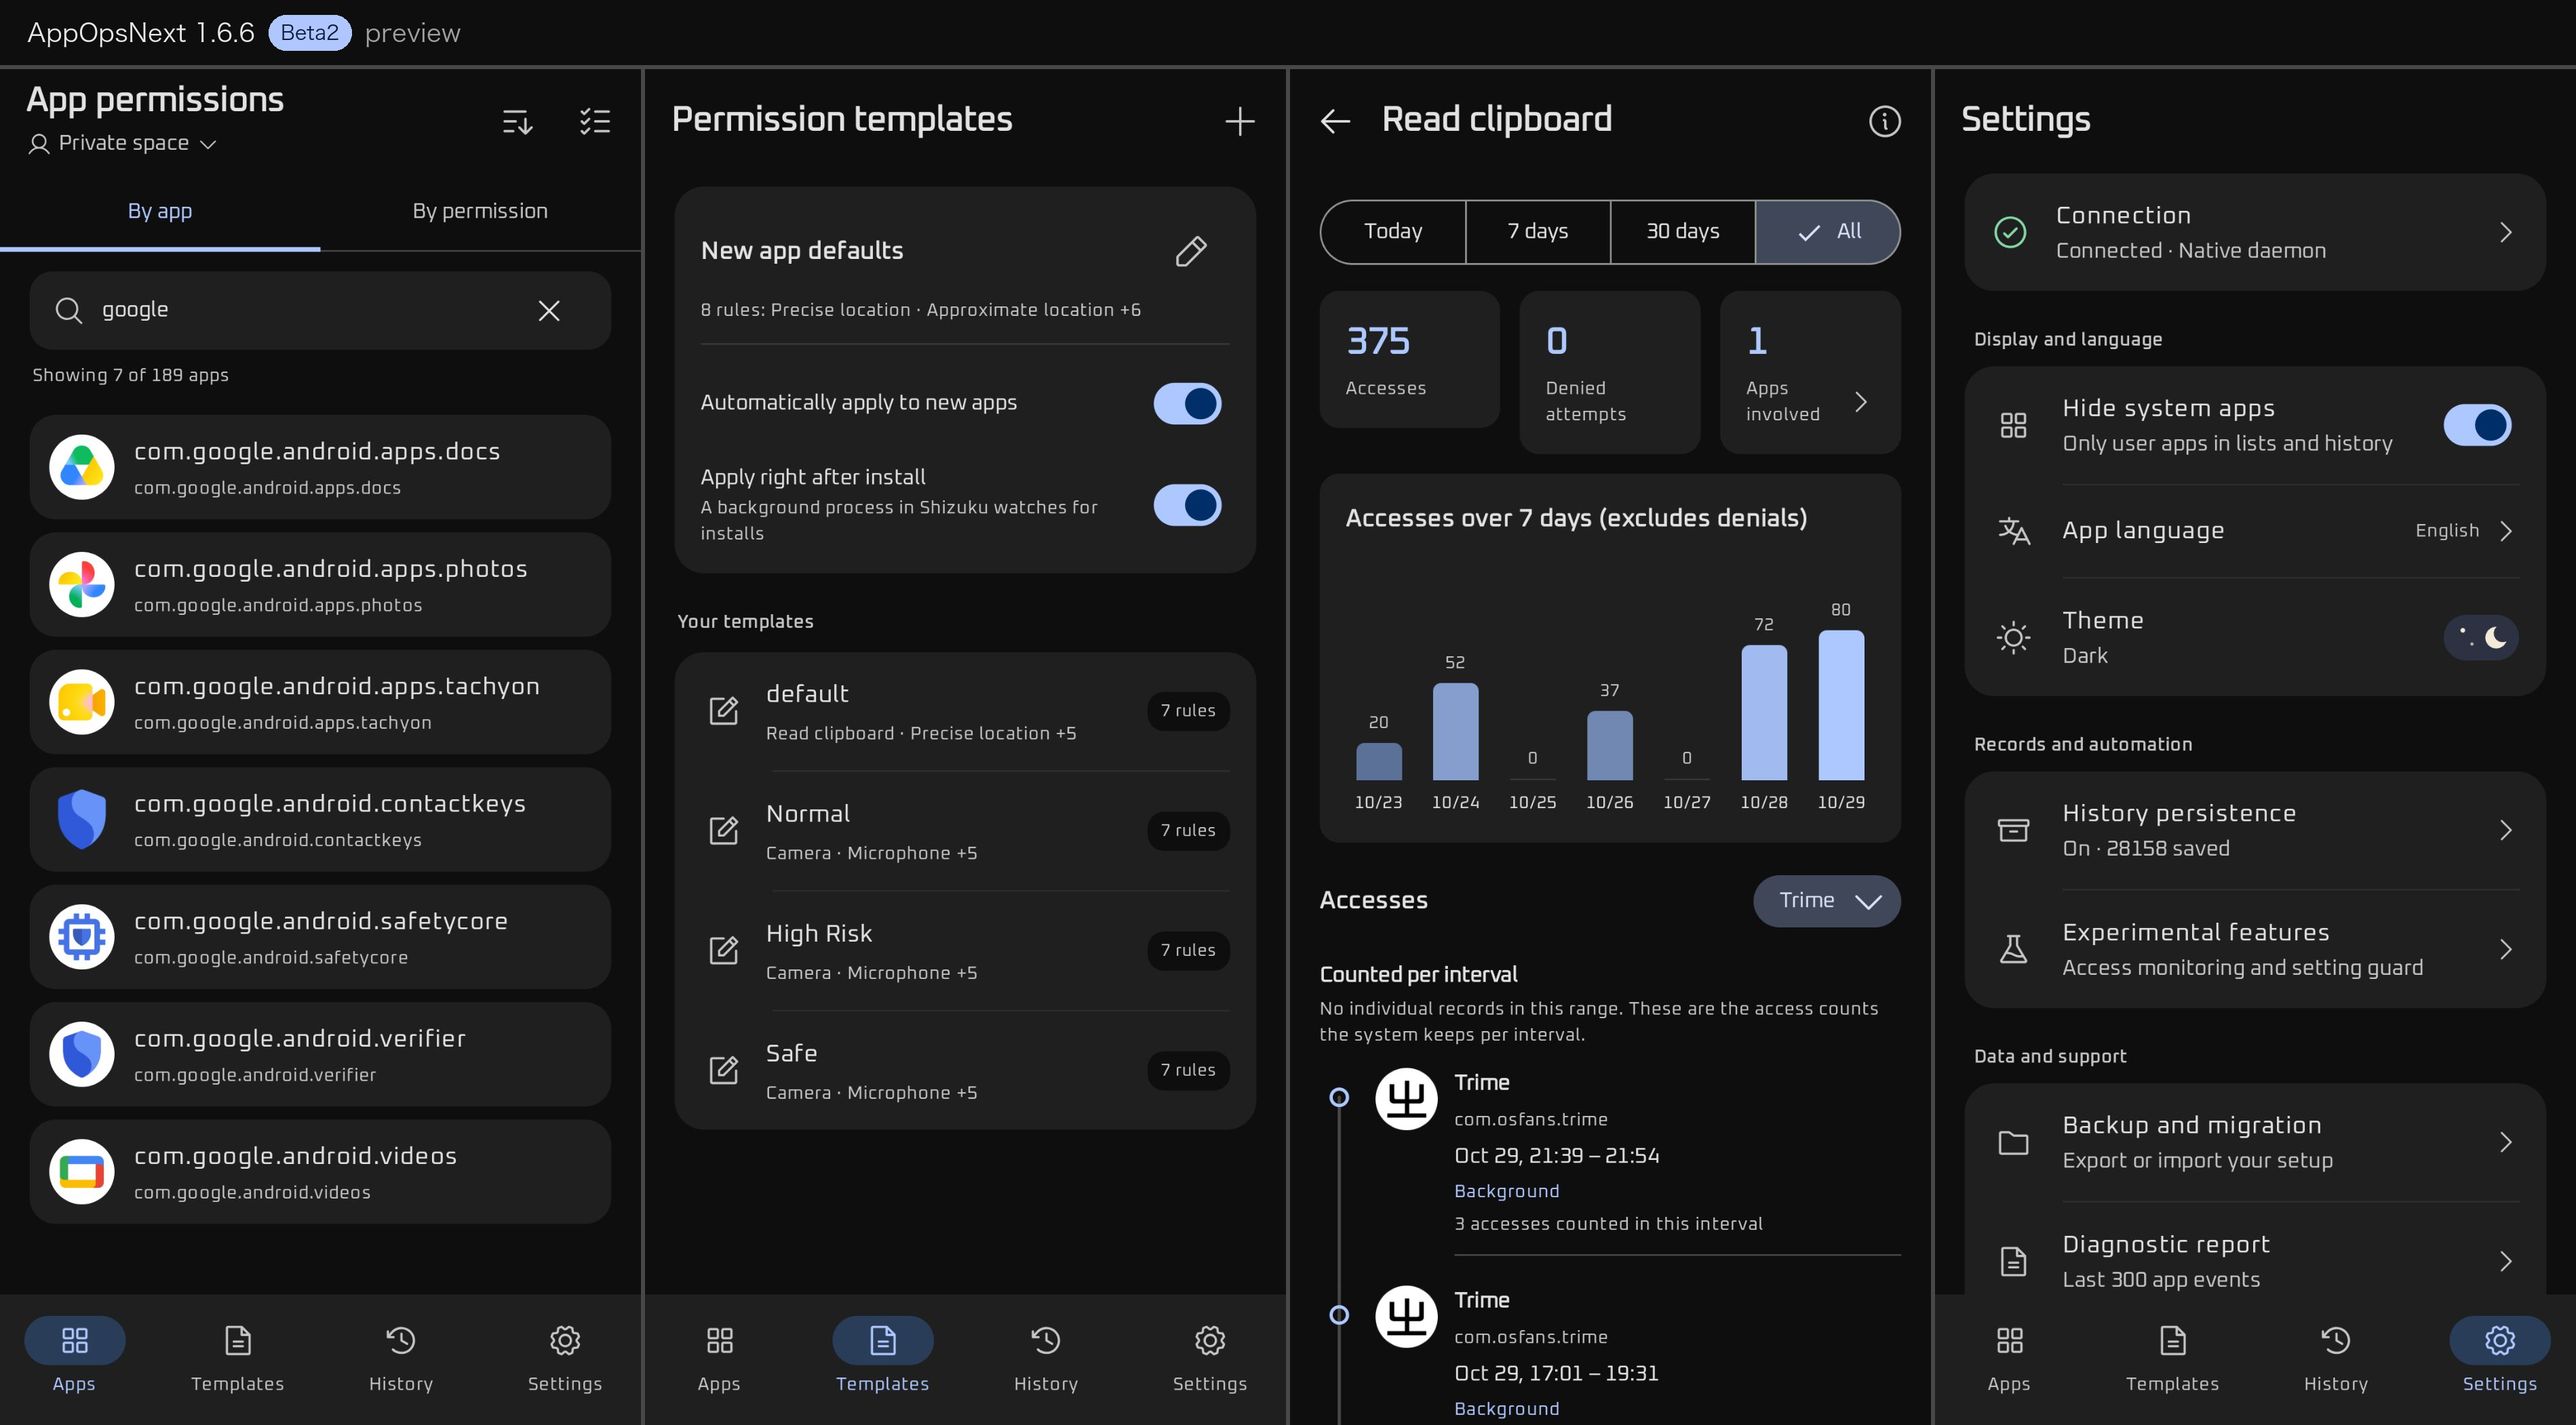
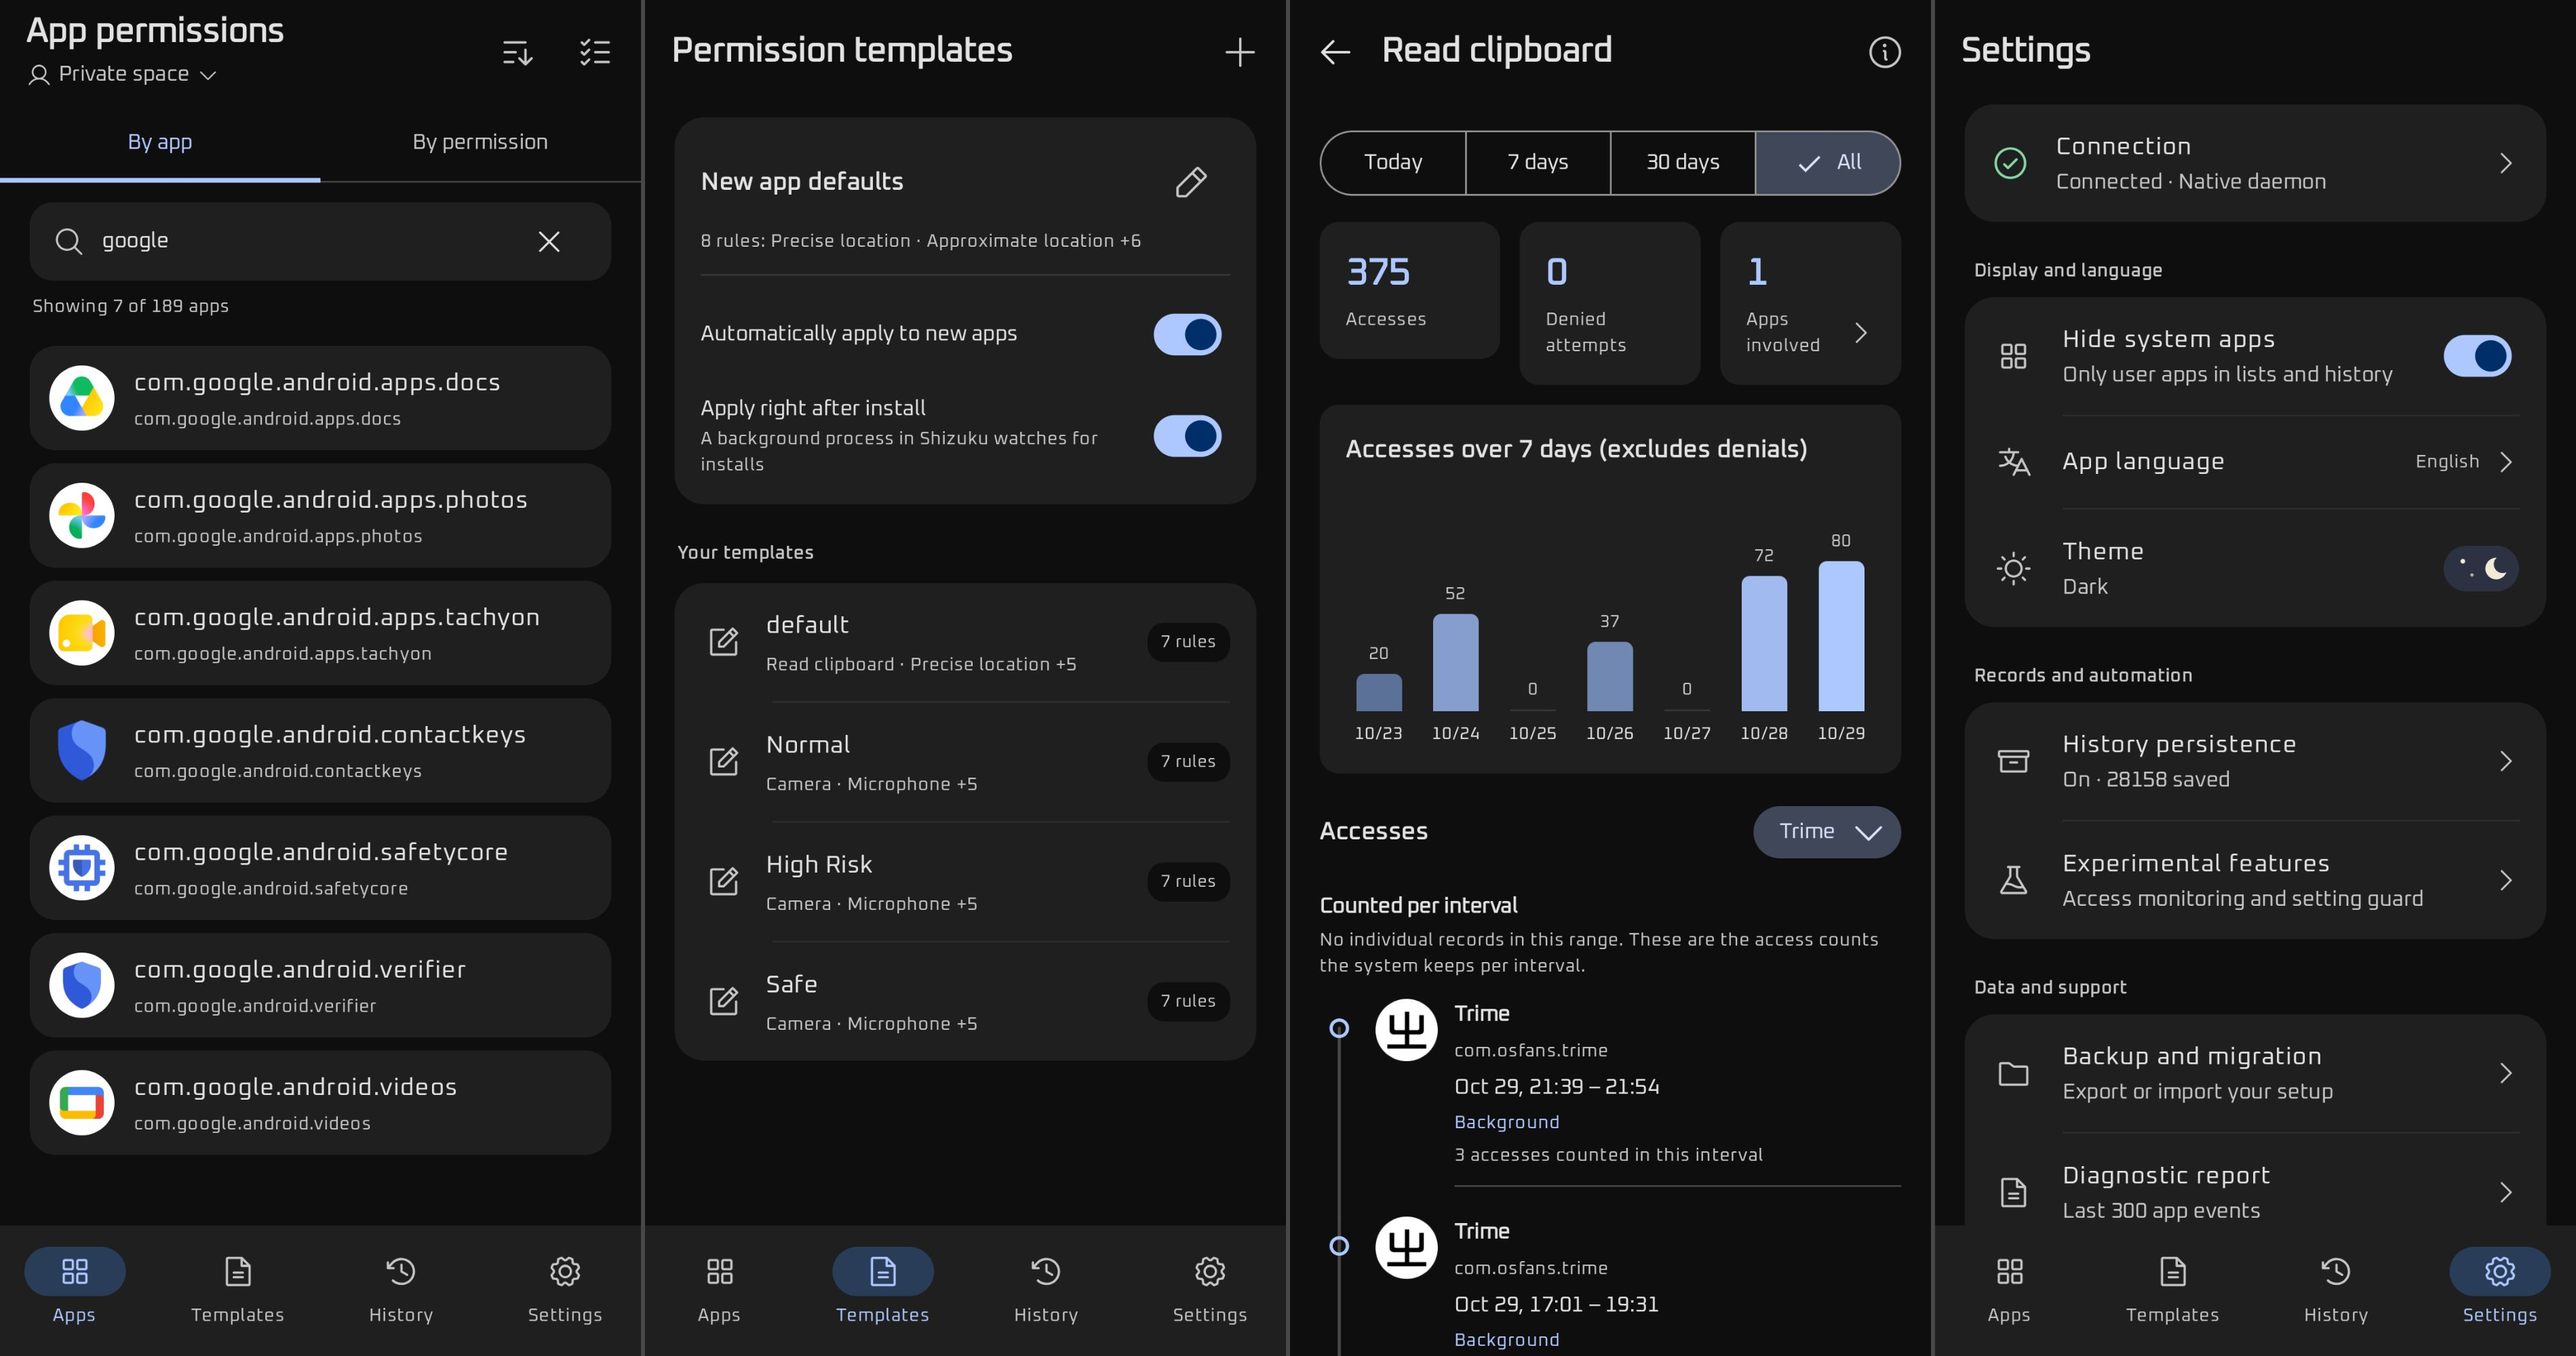
Bump version to 1.6.6 and update the READMEs (#23)

diff --git a/README.md b/README.md
@@ -25,13 +25,16 @@ Official APKs are published **ONLY** on GitHub Releases. No guarantee is made fo
 
 - **Permission controls.** Set AppOps such as camera, location, and clipboard
   per app, then read back each change to verify it.
-- **Templates.** Apply saved rules to several apps or automatically to new installs.
+- **Templates.** Apply saved rules to several apps, or automatically to new apps
+  right after they are installed.
 - **History.** Filter by time and app, including counts of denied attempts. Save
   individual records on the device beyond Android's seven-day retention period.
 - **Access monitoring (experimental).** Watch chosen app permissions, get reports
   of allowed and denied accesses, and review them in a log.
 - **Permission change listeners (experimental).** See which processes are
   registered to watch for permission-setting changes.
+- **Setting guard (experimental).** Get a notification when the system, a vendor
+  policy, or another app changes a guarded setting, and optionally restore it.
 - **Limited privileged access.** Use a fixed set of AppOps and permission-flag commands,
   with no arbitrary shell execution. Records stay on the device; only the update
   check uses the network.
@@ -40,13 +43,14 @@ Official APKs are published **ONLY** on GitHub Releases. No guarantee is made fo
 
 | Area | Features |
 | --- | --- |
-| Applications | Browse current-user apps, search names and packages, and choose whether to show system apps. Switch to By permission to see the mode of every app for one operation and change it there. |
+| Applications | Browse apps, search names and packages, sort by name, install time, or update time, and choose whether to show system apps. On a device with several users, switch to another user such as a work profile or private space. Switch to By permission to see the mode of every app for one operation and change it there. |
 | AppOps | Inspect package and UID modes, search operations by localized or system name, and verify changes by reading them back. |
-| Templates and batches | Create reusable rules, reorder them, apply a template to multiple apps, or change several operations in one app. Multi-select lists offer Select all for the items shown. Batch confirmations list the target mode and the items to change. |
-| Newly installed apps | Opt in to automatic template application, catch up on pending installations, and inspect saved per-rule results. |
+| Templates and batches | Create reusable rules, reorder them, apply a template to multiple apps, or change several operations in one app. Multi-select lists offer Select all for the items shown. Batch confirmations list the target mode and the items to change. When Setting guard is on, a template batch can also guard the settings it applied. |
+| Newly installed apps | Opt in to automatic template application and inspect saved per-rule results. With Apply right after install, a process kept in Shizuku watches for installs, so the template applies without opening AppOpsNext. A periodic background check handles anything missed. |
 | History | Explore permission distribution, app statistics, and timelines by day range and app; choose and reorder the operations you follow. Optionally keep individual records past the seven days Android retains. |
-| Settings and diagnostics | Switch between English, Simplified Chinese, or the system language, inspect connection status and diagnostic reports, and see quietly whether a newer release exists. |
-| Experimental | Watch chosen operations for chosen apps, with per-point reporting intervals, outcome filters and off-screen-only reporting. Notification permission is required for alerts. A registry check reports confirmed or unconfirmed coverage. A monitor log keeps every reported access, allowed or refused, whatever the notification settings. Also inspect a snapshot of processes registered for permission mode changes. |
+| Settings and diagnostics | Switch between English, Simplified Chinese, or the system language. Choose a theme: follow system, light, or dark. Inspect connection status and diagnostic reports, and see quietly whether a newer release exists. |
+| Backup and migration | Export templates, preferences, the access monitor selection, and Setting guard rules to a file. An import shows a preview of the changes and applies them only after you confirm. |
+| Experimental | Watch chosen operations for chosen apps, with per-point reporting intervals, outcome filters and off-screen-only reporting. Notification permission is required for alerts. A registry check reports confirmed or unconfirmed coverage. A monitor log keeps every reported access, allowed or refused, whatever the notification settings. Setting guard checks guarded settings hourly or in real time, and each rule can restore its target mode automatically, at most 3 attempts in 24 hours. Also inspect a snapshot of processes registered for permission mode changes. |
 
 ## Install and get started
 
@@ -68,7 +72,8 @@ AppOpsNext still needs Shizuku for privileged operations.
 
 Use **Templates** for reusable rules and **History** to review system records.
 Automatic template application for newly installed apps is optional; configure
-its rules before enabling it. The first reconciliation establishes an existing-app
+its rules before enabling it. Apply right after install needs Shizuku to be
+running, and its process starts again when Shizuku restarts. The first reconciliation establishes an existing-app
 baseline; it does not retroactively apply the template to every installed app.
 
 For updates, install the new release APK over the existing app to retain its
@@ -178,10 +183,10 @@ target separately.
 | --- | --- |
 | `QUERY_ALL_PACKAGES` | An AppOps manager has to discover packages that are not known at build time. |
 | `INTERNET` | Only to check quietly whether a newer release exists. |
-| `POST_NOTIFICATIONS` | Results of automatic template application, and access reports from the experimental monitor. |
-| `FOREGROUND_SERVICE`, `FOREGROUND_SERVICE_SPECIAL_USE` | Keeps the experimental access monitor's callbacks reachable while it is switched on. |
+| `POST_NOTIFICATIONS` | Results of automatic template application, access reports from the experimental monitor, and Setting guard alerts. |
+| `FOREGROUND_SERVICE`, `FOREGROUND_SERVICE_SPECIAL_USE` | Keeps the callbacks of the experimental access monitor and of realtime Setting guard reachable while they are switched on. |
 
-The update check reads one public GitHub endpoint and nothing else. It never
+The update check reads public GitHub release information and nothing else. It never
 forces an update, never downloads or installs anything, and never shows a popup
 or a notification about it: an available version appears next to the app version
 in Settings and nowhere else. **No user data of any kind is uploaded.**
@@ -193,7 +198,7 @@ entirely your decision.
 ## Troubleshooting
 
 - **Cannot connect:** confirm Shizuku is running and AppOpsNext is authorized,
-  then check **Settings → Connection and diagnostics**. The app tries its
+  then check **Settings → Connection**. The app tries its
   bundled native backend first and Shizuku UserService if native startup fails.
 - **A mode will not apply:** check the Android runtime permission and the
   reported verification result. Some system restrictions cannot be overridden
@@ -285,7 +290,8 @@ Android packages live under `app/src/main/java/dev/izumi/appopsnext/`.
 | `appops/` | Commands, parsers, scope handling, and verified write transactions. |
 | `nativebackend/`, `shizuku/` | Privileged connections, native pipes, and UserService fallback. |
 | `apps/`, `settings/` | App discovery, metadata caching, and preferences. |
-| `templates/`, `newapps/`, `batch/` | Template persistence, installation detection, resumable rule execution, and batch targets. |
+| `templates/`, `newapps/`, `batch/` | Template persistence, installation detection and the install watcher, resumable rule execution, and batch targets. |
+| `guard/`, `backup/` | Experimental Setting guard, and export and import of the app's setup. |
 | `history/` | System-history parsing, refresh scheduling, local snapshots, and the saved individual-record archive. |
 | `diagnostics/` | Environment and connection reports. |
 | `monitor/` | Experimental access monitor: watch registration over a forwarded binder call, per-point reporting settings, event filtering, notifications, and the event log. |

diff --git a/docs/PRIVILEGED_BACKENDS.md b/docs/PRIVILEGED_BACKENDS.md
@@ -39,6 +39,7 @@ operation and permission names first, and the daemon validates them again.
 | `SET_UID` | `cmd appops set --uid <package> <op> <mode>` |
 | `GET_PACKAGE_PERMISSIONS` | `dumpsys package <package>` |
 | `LIST_USERS` | `pm list users` (no arguments) |
+| `GET_PACKAGE_TIMES` | `dumpsys package packages` (no arguments) |
 | `LIST_PACKAGES_FOR_USER` | `pm list packages --user <user> -U` |
 | `GET_USER_PACKAGE_OPS` | `cmd appops get --user <user> <package>` |
 | `GET_USER_PACKAGE_OP` | `cmd appops get --user <user> <package> <op>` |
